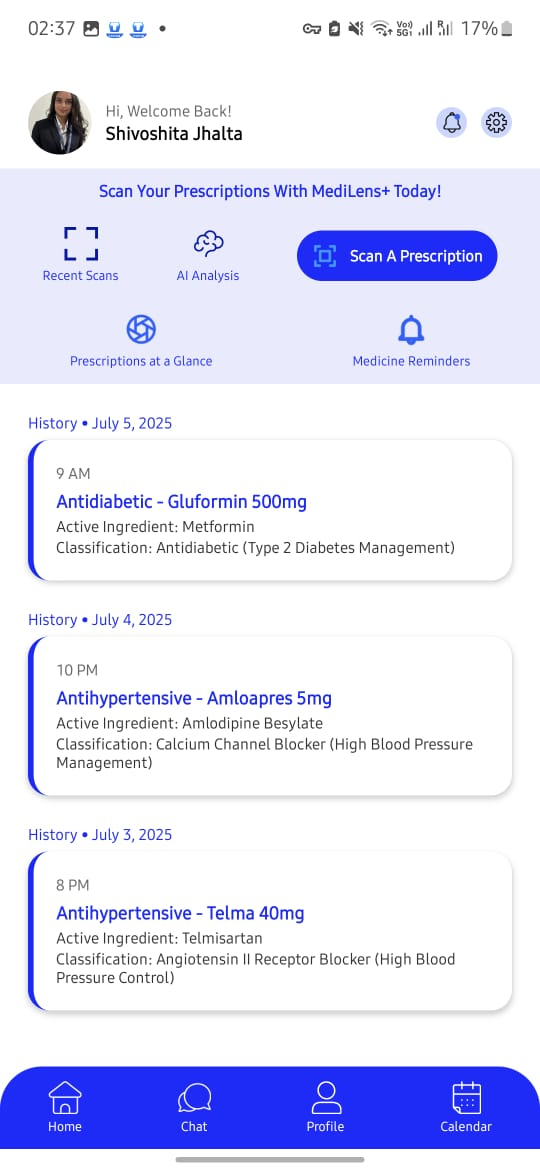
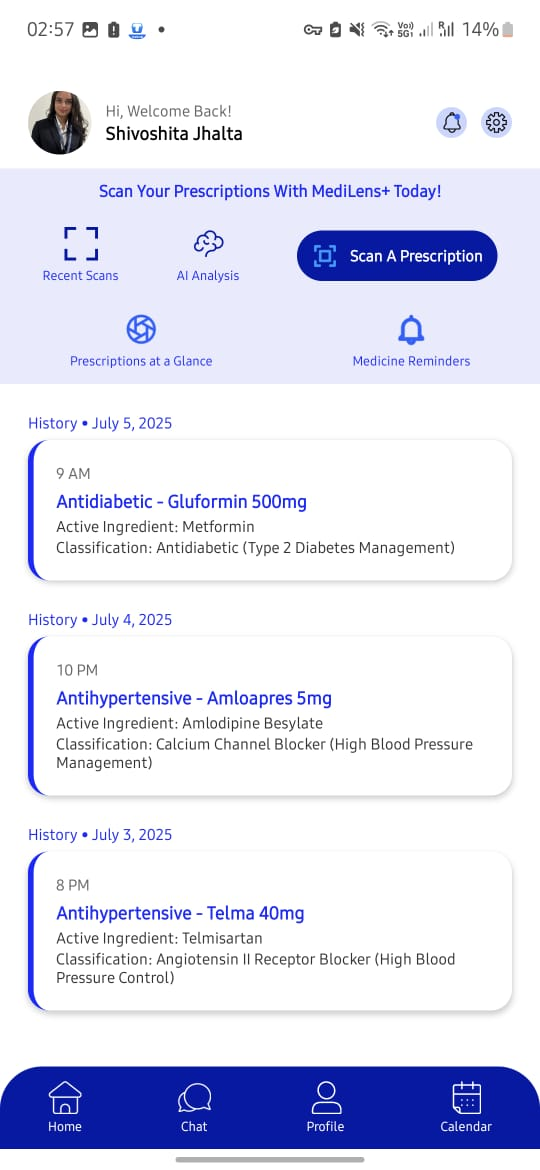
Screenshot and theme updated

diff --git a/screens/HomeScreen.js b/screens/HomeScreen.js
@@ -294,7 +294,7 @@ const styles = StyleSheet.create({
   scanPrescriptionButton: {
     flexDirection: 'row',
     alignItems: 'center',
-    backgroundColor: '#1A29FF',
+    backgroundColor: '#0018A8',
     paddingVertical: 8,
     paddingHorizontal: 10,
     borderRadius: 20,
@@ -374,7 +374,7 @@ const styles = StyleSheet.create({
   },
   bottomNav: {
     flexDirection: 'row',
-    backgroundColor: '#1A29FF',
+    backgroundColor: '#0018A8',
     paddingVertical: 10,
     borderTopLeftRadius: 30,
     borderTopRightRadius: 30,
